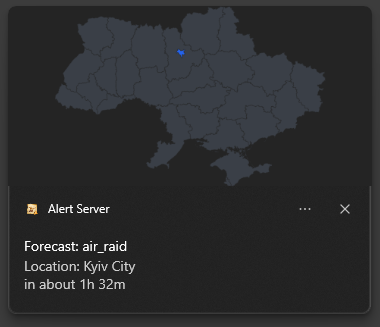
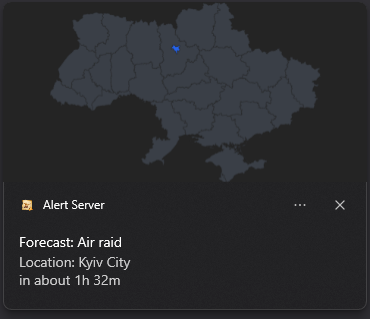
Refresh all screenshots, add cancellation and threats pictures; humanize English alert type names

diff --git a/electron-app/src/main/services/notifier.js b/electron-app/src/main/services/notifier.js
@@ -155,6 +155,7 @@ function createRichNotification({ title, bodyLines, heroImagePath, iconName, onC
     notification.on('failed', release);
 
     notification.show();
+    return notification;
 }
 
 async function notifyWithMap({ uid, uids, title, bodyLines, iconName, color, onClick }) {
@@ -169,7 +170,7 @@ async function notifyWithMap({ uid, uids, title, bodyLines, iconName, color, onC
         }
     }
 
-    createRichNotification({ title, bodyLines, heroImagePath, iconName, onClick });
+    return createRichNotification({ title, bodyLines, heroImagePath, iconName, onClick });
 }
 
 function showAlertDetails(title, language, locationName, typeName, startedAt) {

diff --git a/electron-app/src/main/services/alertTypes.js b/electron-app/src/main/services/alertTypes.js
@@ -13,10 +13,15 @@ function getAlertTypes() {
     return alertTypes;
 }
 
+function humanizeId(id) {
+    const text = String(id).replace(/_/g, ' ');
+    return text.charAt(0).toUpperCase() + text.slice(1);
+}
+
 function alertTypeName(alertTypeId, language) {
     const type = getAlertTypes().find((entry) => entry.id === alertTypeId);
     if (!type) return alertTypeId;
-    return language === 'English' ? type.id : type.name;
+    return language === 'English' ? humanizeId(type.id) : type.name;
 }
 
 module.exports = { alertTypeName };

diff --git a/electron-app/src/main/services/tray.js b/electron-app/src/main/services/tray.js
@@ -227,4 +227,4 @@ function updateTrayState(activeCount, totalCount) {
     trayInstance.setToolTip(lines.join('\n'));
 }
 
-module.exports = { createTray, updateTrayState, setTemporaryTooltip, clearTemporaryTooltip };
+module.exports = { createTray, updateTrayState, setTemporaryTooltip, clearTemporaryTooltip, buildMenu };

diff --git a/README-UA.md b/README-UA.md
@@ -83,6 +83,11 @@
     <img src="docs/images/trends-uk-light.png" alt="тенденції">
   </picture>
 
+  <picture>
+    <source media="(prefers-color-scheme: dark)" srcset="docs/images/trends-threats-uk-dark.png">
+    <img src="docs/images/trends-threats-uk-light.png" alt="тенденції, вкладка загроз">
+  </picture>
+
 - **Налаштування** відкриває двоколонкове вікно: ліворуч - регіони моніторингу (клікабельна мапа областей України над деревом із пошуком, від області до окремої громади - вибір регіону на мапі чи в дереві синхронізується; позначення регіону вищого рівня вибирає й усі вкладені в нього регіони; кнопка дозволяє одразу зняти весь вибір), праворуч - решта, згрупована в три розділи: **Загальні** (мова інтерфейсу, тема - світла/темна/авто, автозапуск при старті Windows, періодичність перевірки оновлень застосунку), **Сповіщення** (окремі тумблери для сповіщень про поточні тривоги й про наближення прогнозованої тривоги з тим, за скільки хвилин попереджати, порогова кількість тривог по Україні для індикатора масової атаки в треї, режим звукового сповіщення - без звуку, сирена або голос - та кількість його повторень) і **Джерело даних** (звідки беруться самі дані про поточні тривоги, на яких побудовано все інше в застосунку - [alerts.in.ua](https://alerts.in.ua/) за замовчуванням, через постійне WebSocket-з'єднання із сервером проєкту, тож оновлення надходять одразу, а не за встановленим інтервалом, з відкатом на короткочасне опитування лише поки це з'єднання недоступне, з автоматичним переходом на [UkraineAlarm](https://api.ukrainealarm.com/) (коли його увімкнено на сервері), а потім на [Neptun](https://neptun.in.ua), якщо пріоритетне джерело перестає відповідати, з фоновою спробою повернутись на нього, щойно воно відновиться - це пріоритет, а не єдиний варіант; ручне перемикання й далі перезапускає застосунок). Залежні пункти автоматично стають неактивними (наприклад, кількість повторень звуку, коли звук вимкнено).
 
   <picture>
@@ -99,6 +104,11 @@
 <picture>
   <source media="(prefers-color-scheme: dark)" srcset="docs/images/alert-uk-dark.png">
   <img src="docs/images/alert-uk-light.png" alt="сповіщення про тривогу">
+</picture>
+
+<picture>
+  <source media="(prefers-color-scheme: dark)" srcset="docs/images/cancel-uk-dark.png">
+  <img src="docs/images/cancel-uk-light.png" alt="сповіщення про відбій тривоги">
 </picture>
 
 Клік лівою кнопкою по іконці трею відкриває головне вікно одразу на **Поточному статусі**: активні тривоги (для кожної - скільки вона вже триває, а також середня тривалість цього типу за останню добу і за весь період спостережень) або спокійне "Все спокійно", із ярликом на "Прогноз" для всього, що очікується найближчим часом - зручно для швидкого погляду. Наведення курсора на іконку трею показує найближчий прогноз у підказці, якщо активних тривог немає. Якщо увімкнено в Налаштуваннях (за замовчуванням увімкнено), застосунок також надсилає сповіщення - із синьою мапою регіону, без звуку тривоги - коли прогнозований час тривоги наближається, окремо від сповіщень про тривогу/відбій вище; за одну перевірку спрацьовує не більше 3, найближчі першими, щоб не заспамити, якщо одночасно підходять кілька регіонів.

diff --git a/README.md b/README.md
@@ -83,6 +83,11 @@ The tray icon itself automatically matches the Windows light/dark taskbar theme 
     <img src="docs/images/trends-en-light.png" alt="trends">
   </picture>
 
+  <picture>
+    <source media="(prefers-color-scheme: dark)" srcset="docs/images/trends-threats-en-dark.png">
+    <img src="docs/images/trends-threats-en-light.png" alt="trends, threats tab">
+  </picture>
+
 - **Settings** opens a two-column settings window: regions to monitor on the left (a clickable map of Ukraine's regions above a searchable tree going down to individual community - selecting a region on either one selects it on the other; checking a higher-level region selects everything nested inside it; a button clears the whole selection at once), and everything else on the right, grouped into three sections - **General** (interface language, light/dark/auto theme, launching at Windows startup, how often the app checks for a new version), **Notifications** (separate toggles for active-alert notifications and forecast-approach notifications with how many minutes ahead to warn, the nationwide alert-count threshold for the mass-attack tray indicator, sound notification mode - none, siren, or voice - and its repeat count), and **Data source** (which feed the current-alerts data everything else in the app is built on comes from - [alerts.in.ua](https://alerts.in.ua/) by default, held over a persistent WebSocket connection to the project's server so updates arrive the moment they happen rather than on a fixed interval, falling back to brief polling only for as long as that connection is down, with automatic failover to [UkraineAlarm](https://api.ukrainealarm.com/) (when it is enabled on the server) and then [Neptun](https://neptun.in.ua) if the preferred one stops responding, retrying it in the background so the app switches back on its own once it recovers - a preference, not an exclusive choice; switching it manually still relaunches the app). Dependent options grey out automatically (e.g. the sound repeat count when sound is off).
 
   <picture>
@@ -99,6 +104,11 @@ Notifications for an alert starting or ending appear through the Windows Notific
 <picture>
   <source media="(prefers-color-scheme: dark)" srcset="docs/images/alert-en-dark.png">
   <img src="docs/images/alert-en-light.png" alt="alert notification">
+</picture>
+
+<picture>
+  <source media="(prefers-color-scheme: dark)" srcset="docs/images/cancel-en-dark.png">
+  <img src="docs/images/cancel-en-light.png" alt="alert cancelled notification">
 </picture>
 
 Left-clicking the tray icon opens the main window straight on **Current status**: any active alerts (each with how long it's already been running, plus that alert type's average duration over the last 24 hours and over the whole observed history) or a calm "All quiet", with a shortcut to the Forecast for anything upcoming - handy for a quick glance. Hovering the tray icon shows the nearest upcoming forecast as a tooltip when there's no active alert. If enabled in Settings (on by default), the app also sends a notification - with a blue region map, no alert sound - when a forecasted alert time is approaching, separate from the alert/cancellation notifications above; at most 3 fire per check, soonest first, to avoid a flood if many regions qualify at once.
